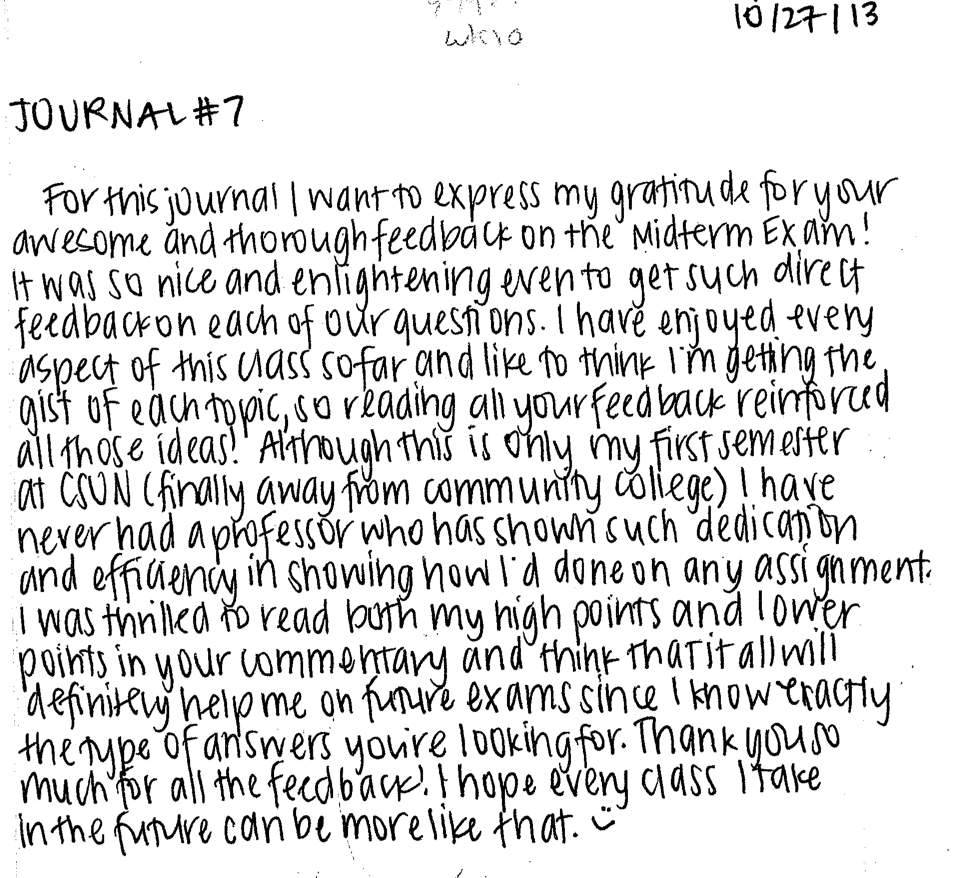
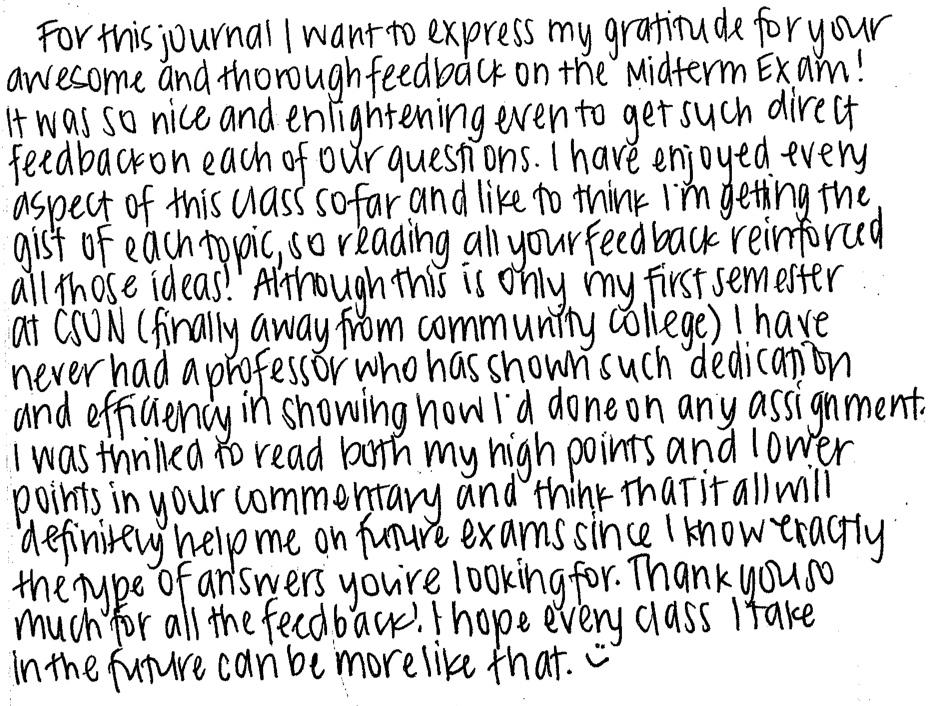
carosel works. ugly.

diff --git a/resources/views/index.blade.php b/resources/views/index.blade.php
@@ -7,27 +7,123 @@
     {{--<link href="{{ asset('css/grade-package.css') }}" rel="stylesheet" type="text/css">--}}
 @endsection
 @section('body')
-<div id="homePage" class="row mainBodyLocator">
-    <div class="row"><div class="col-xs-1 col-md-2 col-lg-2"></div>
-    <div class="col-xs-10 col-md-8 col-lg-8">
-        <img
-                class="img-responsive"
-                src="{{asset('images/home/greenbookSmall.jpeg')}}"
-             alt="Picture of a student's exam, ready for grading.">
+    <div id="homePage" class="row mainBodyLocator">
+        <div class="col-xs-1 col-md-2 col-lg-2"></div>
+        <div class="col-xs-10 col-md-8 col-lg-8">
+            <h1>Give personalized feedback. Collect detailed data. Finish grading fast.</h1>
+
+            <div id="myCarousel" class="carousel slide" data-ride="carousel">
+                <!-- Indicators -->
+                <ol class="carousel-indicators">
+                    <li data-target="#myCarousel" data-slide-to="0" class="active"></li>
+                    <li data-target="#myCarousel" data-slide-to="1"></li>
+                    <li data-target="#myCarousel" data-slide-to="2"></li>
+                    <li data-target="#myCarousel" data-slide-to="3"></li>
+                </ol>
+
+                <!-- Wrapper for slides -->
+                <div class="carousel-inner" role="listbox">
+                    <div class="item active">
+                        <img
+                                class="img-responsive"
+                                src="{{asset('images/home/greenbookSmall.jpeg')}}"
+                                alt="Picture of a student's exam, ready for grading.">
+                        <div class="carousel-caption">
+                            <p>....a good exam is a graded exam</p>
+                        </div>
+                    </div>
+
+                    <div class="item">
+                        <img
+                                class="img-responsive"
+                                src="{{asset('images/home/StudentThankYou1.jpeg')}}"
+                                alt="[TODO Add text version]">
+                        <div class="carousel-caption">
+                            <p>Actual student response!</p>
+                             </div>
+                    </div>
+
+                    <div class="item">
+                        <img
+                                class="img-responsive"
+                                src="{{asset('images/home/StudentThankYou2.jpeg')}}"
+                                alt="[TODO Add text version]">
+                        <div class="carousel-caption">
+                            <p>Actual student response!</p>
+                        </div>
+                    </div>
+
+                    <div class="item">
+                        <img
+                                class="img-responsive"
+                                src="{{asset('images/home/partial_example_of_feedback_small.jpeg')}}"
+                                alt="[TODO Add text version]">
+                        <div class="carousel-caption">
+                            <p>Give helpful feedback</p>
+                        </div>
+                    </div>
+                </div>
+
+                <!-- Left and right controls -->
+                <a class="left carousel-control" href="#myCarousel" role="button" data-slide="prev">
+                    <span class="glyphicon glyphicon-chevron-left" aria-hidden="true"></span>
+                    <span class="sr-only">Previous</span>
+                </a>
+                <a class="right carousel-control" href="#myCarousel" role="button" data-slide="next">
+                    <span class="glyphicon glyphicon-chevron-right" aria-hidden="true"></span>
+                    <span class="sr-only">Next</span>
+                </a>
+            </div>
+        </div>
+        <div class="col-xs-1 col-md-2 col-lg-2"></div>
     </div>
-    <div class="col-xs-1 col-md-2 col-lg-2"></div>
-    </div>
-    <div class="row">
-    <div class="col-xs-1 col-md-2 col-lg-2"></div>
-    <div class="col-xs-10 col-md-8 col-lg-8">
-        <img
-                class="img-responsive"
-                src="{{asset('images/home/greenbookSmall.jpeg')}}"
-                alt="Picture of a student's exam, ready for grading.">
-    </div>
-    <div class="col-xs-1 col-md-2 col-lg-2"></div>
-    </div>
-</div>
+
+
+
+    {{--<div class="row">--}}
+                {{--<div class="col-xs-1 col-md-2 col-lg-2"></div>--}}
+                {{--<div class="col-xs-10 col-md-8 col-lg-8">--}}
+                    {{--<img--}}
+                            {{--class="img-responsive"--}}
+                            {{--src="{{asset('images/home/greenbookSmall.jpeg')}}"--}}
+                            {{--alt="Picture of a student's exam, ready for grading.">--}}
+                {{--</div>--}}
+                {{--<div class="col-xs-1 col-md-2 col-lg-2"></div>--}}
+            {{--</div>--}}
+            {{--<div class="row">--}}
+                {{--<div class="col-xs-1 col-md-2 col-lg-2"></div>--}}
+                {{--<div class="col-xs-10 col-md-8 col-lg-8">--}}
+                    {{--<img--}}
+                            {{--class="img-responsive"--}}
+                            {{--src="{{asset('images/home/partial_example_of_feedback_small.jpeg')}}"--}}
+                            {{--alt="Picture of a student's exam, ready for grading.">--}}
+                {{--</div>--}}
+                {{--<div class="col-xs-1 col-md-2 col-lg-2"></div>--}}
+            {{--</div>--}}
+
+            {{--<div class="row">--}}
+                {{--<div class="col-xs-1 col-md-2 col-lg-2"></div>--}}
+                {{--<div class="col-xs-10 col-md-8 col-lg-8">--}}
+                    {{--<img--}}
+                            {{--class="img-responsive"--}}
+                            {{--src="{{asset('images/home/StudentThankYou1.jpeg')}}"--}}
+                            {{--alt="Picture of a student's exam, ready for grading.">--}}
+                {{--</div>--}}
+                {{--<div class="col-xs-1 col-md-2 col-lg-2"></div>--}}
+            {{--</div>--}}
+
+            {{--<div class="row">--}}
+                {{--<div class="col-xs-1 col-md-2 col-lg-2"></div>--}}
+                {{--<div class="col-xs-10 col-md-8 col-lg-8">--}}
+                    {{--<img--}}
+                            {{--class="img-responsive"--}}
+                            {{--src="{{asset('images/home/StudentThankYou2.jpeg')}}"--}}
+                            {{--alt="Picture of a student's exam, ready for grading.">--}}
+                {{--</div>--}}
+                {{--<div class="col-xs-1 col-md-2 col-lg-2"></div>--}}
+            {{--</div>--}}
+        {{--</div>--}}
+
 @endsection
 
 @section('jsArea')
